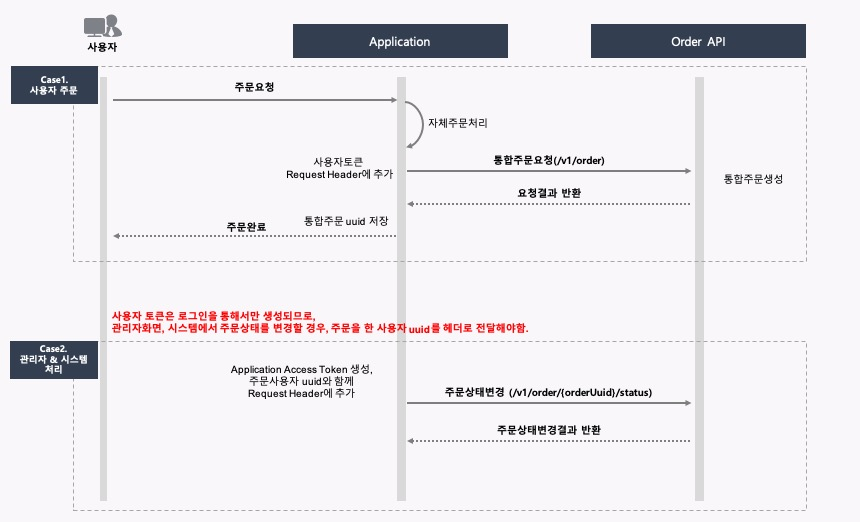
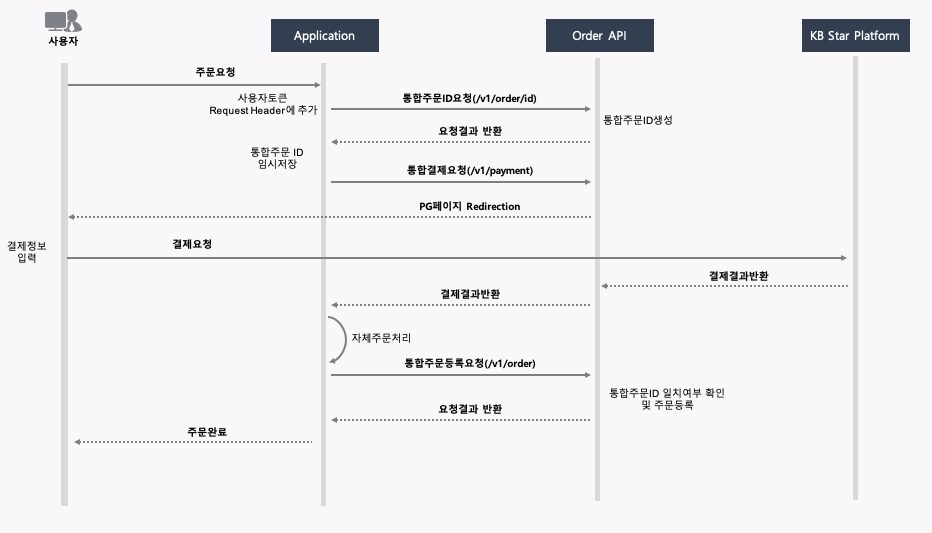
주문결제flow 추가

Changed region(s): [[0.0, 0.0307, 0.9977, 0.9808], [0.0302, 0.0, 0.1512, 0.092], [0.1814, 0.7969, 0.2419, 0.8276]]

diff --git a/apis/order.md b/apis/order.md
@@ -8,11 +8,12 @@
 
 ## 목차
 
-[1.주문 등록 API](#주문-등록-API)</br>
-[2.주문상태 변경 API](#주문상태-변경-API)</br>
-[3.주문 수정 API](#주문-수정-API)</br>
-[4.주문 삭제 API](#주문-삭제-API)</br>
-[5.반환코드정보](#반환코드정보)</br>
+[1.주문 ID생성 API](#주문-ID생성-API)</br>
+[2.주문 등록 API](#주문-등록-API)</br>
+[3.주문상태 변경 API](#주문상태-변경-API)</br>
+[4.주문 수정 API](#주문-수정-API)</br>
+[5.주문 삭제 API](#주문-삭제-API)</br>
+[6.반환코드정보](#반환코드정보)</br>
 
 
 
@@ -32,6 +33,145 @@
 - 관리자가 주문을 취소한 경우
 - 관리자가 주문상태를 변경할 경우
 - 시스템에서 배송상태를 변경 할 때
+
+# 주문 ID생성 API
+
+## Request
+
+##### URL(User Access Token 사용)
+
+```http
+POST /v1/order/id HTTP/1.1
+Host: dapi.o2obusan.com
+Content-type: application/x-www-form-urlencoded;charset=utf-8
+```
+
+##### URL(Application Access Token 사용)
+
+```http
+POST /v1/client/id HTTP/1.1
+Host: dapi.o2obusan.com
+Content-type: application/x-www-form-urlencoded;charset=utf-8
+```
+
+
+
+##### Header
+
+| Name           | Type     | Description                                            | Required |
+| :------------- | :------- | :----------------------------------------------------- | :------- |
+| AppId          | `String` | 인증서버에서 발급받은 Id                               | O        |
+| Authentication | `String` | 토큰 (User Access Token 또는 Application Access Token) | O        |
+| UserUuid       | `String` | Application Access Token을 이용할 경우 필수            |          |
+
+
+
+##### Parameter
+
+| Name          | Type      | Description                 | Required |
+| :------------ | :-------- | :-------------------------- | :------- |
+| storeId       | `String`  | 상점ID(가맹점번호)          | O        |
+| orderNo       | `String`  | 주문번호                    | O        |
+| orderPrice    | `Integer` | 주문금액                    | O        |
+| orderDateTime | `String`  | 주문일시 (yyyyMMddHH24miss) | O        |
+
+
+
+## Response
+
+| Name          | Type     | Description                 |
+| :------------ | :------- | :-------------------------- |
+| resultCode    | `String` | 결과코드                    |
+| resultMessage | `String` | 결과메시지                  |
+| orderUuid     | `String` | 통합주문Id                  |
+| storeId       | `String` | 상점ID(가맹점번호)          |
+| orderNo       | `String` | 주문번호                    |
+| status        | `String` | null 고정                   |
+| orderDateTime | `String` | 주문일시 (yyyyMMddHH24miss) |
+
+
+
+## Sample
+
+### Request
+
+```shell
+curl -v -X POST http://dapi.o2obusan.com/v1/order \
+-d 'orderUuid={orderUuid}' \
+-d 'storeId={storeId}' \
+-d 'storeName={storeName}' \
+-d 'orderNo={orderNo}' \
+-d 'orderPrice={orderPrice}' \
+-d 'orderTitleText={orderTitleText}' \
+-d 'orderSubText={orderSubText}' \
+-d 'status={status}' \
+-d 'imageUrl={imageUrl}' \
+-d 'storeUrl={storeUrl}' \
+-d 'detailUrl={detailUrl}' \
+-d 'deliveryUrl={deliveryUrl}' \
+-d 'orderDateTime={orderDateTime}'
+```
+
+
+
+### Response
+
+```java
+HTTP/1.1 200 OK
+Content-Type: application/json;charset=UTF-8
+{
+    "resultCode": "0000",
+    "resultMessage": "정상",
+    "orderUuid": "xfdadfsa",
+    "storeId": "321",
+    "storeName": "서울상",
+    "orderNo": "20200101",
+    "orderPrice": 0,
+    "orderTitleText": "상추외 5",
+    "orderSubText": null,
+    "status": "주문완",
+    "imageUrl": null,
+    "storeUrl": null,
+    "detailUrl": "testets",
+    "deliveryUrl": null,
+    "orderDateTime": "2021321312321312312"
+}
+```
+
+
+
+### Sample Code
+
+#### Java
+
+```java
+String clientId = "dev-shop";
+MultiValueMap<String, String> body = new LinkedMultiValueMap<>();
+body.add("orderUuid", "ffsadf");
+body.add("storeId", "s20000");
+body.add("storeName", "스시산");
+body.add("orderNo", "xdftdf238drsf");
+body.add("orderPrice", "20000");
+body.add("orderTitleText", "오늘의회(소)");
+body.add("orderSubText", "매운탕추가(2,000원)");
+body.add("status", "주문접수대기");
+body.add("imageUrl", "https://busancdn.o2obusan.com/images/duy3nb239.jpg");
+body.add("storeUrl", "https://market.o2obusan.com/s20000");
+body.add("detailUrl", "https://market.o2obusan.com/orders?orderId=xdftdf238drsf");
+body.add("deliveryUrl", "https://market.o2obusan.com/delivery?orderId=xdftdf238drsf");
+body.add("orderDateTime", "20210128173028");
+
+HttpHeaders headers = new HttpHeaders();
+headers.add("Authorization", String.format("Bearer %s", token));
+headers.add("AppId", clientId)
+
+HttpEntity httpEntity = new HttpEntity(body, headers);
+RestTemplate restTemplate = new RestTemplate();
+
+ResponseEntity<GatewayOrder> result = restTemplate.postForEntity("/v1/order", httpEntity, GatewayOrder.class);
+```
+
+
 
 # 주문 등록 API
 
@@ -541,3 +681,5 @@ ResponseEntity<GatewayOrder> result = restTemplate.deleteForEntity("/v1/order/ey
 | 400 | 1007 | 주문시간이 올바르지 않습니다. |
 | 400 | 1008 | 상태텍스트가 누락되었습니다. |
 | 400 | 1009 | 일치하는 주문이 없습니다. |
+| 400 | 1010 | 주문ID가 올바르지 않습니다. |
+| 400 | 1011 | 일치하는 주문ID가 없습니다. |
